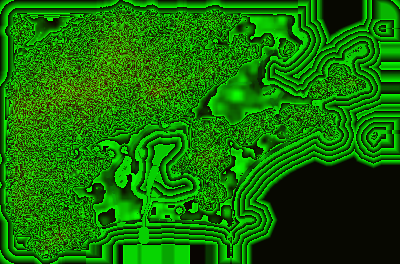
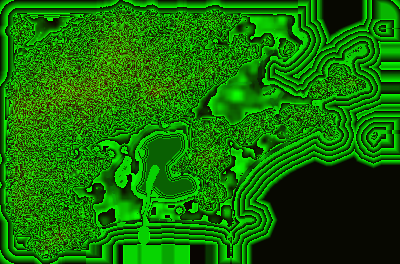
feat(zona-sul): navio 15% maior, canal mais fundo nas laterais, Lagoa toda navegável + som de navegação
Pedro 01/11: "aumentar o navio uns 15%, a lateral do canal afundar um
pouco mais, a Lagoa toda pro barco navegar"; "dirigindo o barco sai som de
caminhada e não de navegação".

- Navio: 32 → 36,8 m (calado 2,0 → 2,3 m). Modelo, convés escaneado
  (13 × 38 células, convés a 4,67 m da quilha), timão, canhões e rastro
  acompanham (tudo sai do comprimento).
- Canal: fundo chato 3,7 → 5 m de cada lado do eixo — navegável 14,75–16,5
  m (casco 8,8 m → 3–3,8 m de folga de cada lado); água à vista ~19–23 m.
  No jogo: atravessa da boca até a Lagoa a 10–11 m/s, sem frear na curva.
- Lagoa: a fundura cresce 0,3 m por m da margem (era 0,1), até 6 m — o
  navio (3,2 m) passa a ~10 m da margem (antes ~29 m); a beirinha segue
  rasa. Laguinhos/represas como eram.
- Som: no timão os passos desligam (ficavam ligados de quando andava no
  convés); NOVO som do casco cortando a água ("chuáá" que vai e vem com a
  proa, sobe com a velocidade) + vento nas velas — gerado no navegador, sem
  arquivo; vale pilotando e em pé no convés com o navio andando.
- Acampamentos, tubarões e farm nos mesmos lugares; os bichos soltos foram
  re-sorteados (a margem nova do canal entrou na beira da Lagoa do jacaré),
  mesmas regras e quantidades.

Changed region(s): [[0.33, 0.4848, 0.51, 0.8182]]

diff --git a/src/components/zona-sul/zona-sul-world.tsx b/src/components/zona-sul/zona-sul-world.tsx
@@ -180,7 +180,7 @@ const EYE_SEATED = 1.12, COCKPIT_FOV = 74, CHASE_FOV = 55;
 
 /** SOM do mundo em volta do herói (mar, arrebentação, carro, vento) — 10×/s. */
 const AMB: AmbienceState = { sea: 0, surf: 0, car: false, carSpeed: 0, carAlt: 0, wind: 0 };
-function ambienceAt(t: ZsTerrain, p: THREE.Vector3, car: ZsCar | null, rideSpeed: number): AmbienceState {
+function ambienceAt(t: ZsTerrain, p: THREE.Vector3, car: ZsCar | null, rideSpeed: number, shipSpeed = 0): AmbienceState {
   let sea = 0;
   for (let a = 0; a < 8; a++) { const ang = (a / 8) * Math.PI * 2; if (zsSurfAt(t, p.x + Math.sin(ang) * 60, p.z + Math.cos(ang) * 60) === ZS_SURF.sea) sea++; }
   AMB.sea = zsCtx.inWater ? 1 : (sea / 8) * Math.max(0, 1 - Math.max(0, p.y) / 45);
@@ -190,6 +190,9 @@ function ambienceAt(t: ZsTerrain, p: THREE.Vector3, car: ZsCar | null, rideSpeed
   AMB.car = drive.mode === 'driving' && !!car;
   AMB.carSpeed = car?.speed ?? 0; AMB.carAlt = car?.altitude ?? 0;
   AMB.wind = AMB.car ? Math.min(1, AMB.carAlt / 25 + Math.abs(AMB.carSpeed) / 60) : Math.min(1, (rideSpeed / 14) * 0.6);
+  // NAVIO (pilotando ou em pé no convés): a água no casco + o vento nas velas, com a velocidade
+  AMB.ship = Math.min(1, Math.abs(shipSpeed) / WARSHIP.MAX);
+  if (AMB.ship > 0) { AMB.wind = Math.max(AMB.wind, AMB.ship * 0.55); AMB.sea = Math.max(AMB.sea, 0.6); }
   // caverna: lá dentro o mar e o vento somem (a rocha abafa)
   const muffle = 1 - zsCave.dark; AMB.sea *= muffle; AMB.surf *= muffle; AMB.wind *= muffle;
   return AMB;
@@ -341,7 +344,7 @@ function Hero({ t, heroRef, focusRef, onHud, carRef, dimsRef, boardRef, playerRe
       if (tc.driving !== drv || tc.nearCar !== near || tc.inWater !== wet || tc.sailing !== sail || tc.nearShip !== nearSh || tc.shipAct !== act) useZsTouch.setState({ driving: drv, nearCar: near, inWater: wet, sailing: sail, nearShip: nearSh, shipAct: act });
     }
     ambAcc.current += dt;
-    if (ambAcc.current > 0.1) { ambAcc.current = 0; zsAmbience.update(ambienceAt(t, p, car, ride.current?.mode === 'ride' ? ride.current.speed : 0)); }
+    if (ambAcc.current > 0.1) { ambAcc.current = 0; zsAmbience.update(ambienceAt(t, p, car, ride.current?.mode === 'ride' ? ride.current.speed : 0, ship && (drive.mode === 'sailing' || onDeck.current) ? ship.speed : 0)); }
     // E: entra (perto do carro) / sai A QUALQUER MOMENTO (Pedro 31/10: "no carro apertar e em qualquer momento pode sair
     // dele; se estiver voando cai do alto e desce normal, então só esperar") — no ar o herói cai com a gravidade de sempre
     if (input.eTap) {
@@ -473,6 +476,7 @@ function Hero({ t, heroRef, focusRef, onHud, carRef, dimsRef, boardRef, playerRe
       p.set(hx, hy, hz); focusRef.current.copy(p);
       if (group.current) { group.current.position.set(hx, hy, hz); group.current.rotation.set(0, ship.yaw, 0); group.current.visible = true; }
       action.current = 'idle'; speed.current = 0; yawNow.current = ship.yaw;
+      audioManager.setFootsteps(false); // no timão não é caminhada (os passos ficavam ligados de quando andava no convés)
       // câmera: atrás do navio, alto e longe (o navio tem 32 m); mirando, fica onde você pôs (escolhe o costado)
       const aiming = input.cannonAim || touchLayout.on;
       if (!input.cannonAim && now - input.lookAt > 2500) { let d = ship.yaw + Math.PI - input.yaw; while (d > Math.PI) d -= Math.PI * 2; while (d < -Math.PI) d += Math.PI * 2; input.yaw += d * Math.min(1, dt * 1.2); }

diff --git a/src/test/canal-jardim-de-alah.test.ts b/src/test/canal-jardim-de-alah.test.ts
@@ -90,7 +90,8 @@ describe('canal do Jardim de Alah navegável', () => {
   /** eixo do canal no trecho estreito (das avenidas do Jardim de Alah até a areia) */
   const axisX = (z: number) => (z <= 280 ? -205 : z <= 340 ? -205 + (z - 280) * (-18 / 60) : -223);
 
-  it('"um navio por vez com sobrinha": no trecho estreito (entre as avenidas e na praia) a água navegável tem ~2 m de folga de cada lado do casco e a água à vista fica em ~16–19 m (não arromba)', () => {
+  // 01/11 (2ª): navio 15% maior (casco 8,8 m) e "a lateral do canal afundar um pouco mais" → ~3 m de folga de cada lado
+  it('"um navio por vez com sobrinha": no trecho estreito (entre as avenidas e na praia) a água navegável tem ~3 m de folga de cada lado do casco e a água à vista fica em ~19–23 m (não arromba)', () => {
     const beam = WARSHIP.LENGTH * 0.12 * 2; // a boca que o casco confere (7,7 m)
     let navMin = Infinity, wetMax = 0, wetSum = 0, n = 0;
     for (let z = 276; z <= 368; z += 2) {
@@ -102,9 +103,9 @@ describe('canal do Jardim de Alah navegável', () => {
       }
       navMin = Math.min(navMin, nav); wetMax = Math.max(wetMax, wet); wetSum += wet; n++;
     }
-    expect(navMin).toBeGreaterThanOrEqual(beam + 2 * 2); // medido: 12,25 m (casco 7,7 → 2,3 m de cada lado)
-    expect(wetMax).toBeLessThanOrEqual(20);              // medido: 19,25 no pior ponto (a grade de 4 m na diagonal)
-    expect(wetSum / n).toBeLessThanOrEqual(18);          // medido: ~17 m em média
+    expect(navMin).toBeGreaterThanOrEqual(beam + 2 * 2.8); // medido: 14,75 m (casco 8,8 → ~3 m de cada lado)
+    expect(wetMax).toBeLessThanOrEqual(23.5);              // medido: 22,75 no pior ponto (a grade de 4 m na diagonal)
+    expect(wetSum / n).toBeLessThanOrEqual(21.5);          // medido: ~20 m em média
   });
 
   it('tubarão continua só no mar (canal e Lagoa não são dele); a margem da Lagoa segue rasa como era', () => {
@@ -112,8 +113,9 @@ describe('canal do Jardim de Alah navegável', () => {
     expect(zsSurfAt(t, -213, 320)).toBe(ZS_SURF.lagoon);
     expect(zsSwimmable(t, -150, 120)).toBe(false);
     expect(zsNavigable(t, -150, 120, WARSHIP.MIN_DEPTH)).toBe(true);
-    // beirinha da Lagoa (a ~6 m da margem oeste, longe do canal): fundura de antes (≤ 1,2 m)
-    expect(-zsHeightAt(t, -226, 150)).toBeLessThan(1.6);
+    // 01/11 (2ª, Pedro: "afundar a Lagoa TODA pro barco navegar"): a ~14 m da margem já passa o navio
+    expect(zsNavigable(t, -212, 150, WARSHIP.MIN_DEPTH)).toBe(true);
+    expect(-zsHeightAt(t, -228, 150)).toBeLessThan(2.5); // a beirinha continua rasa
   });
 
   it('não sobra rua pintada no fundo do canal (a pista para antes da beira d\'água)', () => {

diff --git a/src/components/zona-sul/zs-ambience.ts b/src/components/zona-sul/zs-ambience.ts
@@ -22,6 +22,9 @@ export type AmbienceState = {
   carAlt: number;
   /** 0..1 — vento (voo/surf rápido) */
   wind: number;
+  /** 0..1 — NAVIO andando (fração da velocidade máxima): a água correndo no casco (01/11, Pedro: "dirigindo o barco sai
+   *  som de caminhada e não de navegação") */
+  ship?: number;
 };
 
 type Chain = { gain: GainNode; filter: BiquadFilterNode };
@@ -32,6 +35,8 @@ class ZsAmbience {
   private sea: Chain | null = null;
   private surf: Chain | null = null;
   private wind: Chain | null = null;
+  /** casco do navio: "chuáá" da água na proa/costado (ruído em faixa, sobe com a velocidade) + balanço lento */
+  private hull: Chain | null = null;
   private car: { gain: GainNode; filter: BiquadFilterNode; o1: OscillatorNode; o2: OscillatorNode; whine: OscillatorNode; whineGain: GainNode } | null = null;
   private seaLfo: OscillatorNode | null = null;
 
@@ -79,6 +84,11 @@ class ZsAmbience {
     this.seaLfo = lfo;
     this.surf = this.chain(ctx, 'lowpass', 180, 1.2);
     this.wind = this.chain(ctx, 'bandpass', 600, 0.6);
+    this.hull = this.chain(ctx, 'bandpass', 700, 0.5);
+    // a proa sobe e desce na onda: o "chuáá" vai e vem (~3 s)
+    const hl = ctx.createOscillator(), hlg = ctx.createGain();
+    hl.frequency.value = 0.33; hlg.gain.value = 220;
+    hl.connect(hlg).connect(this.hull.filter.frequency); hl.start();
     const o1 = ctx.createOscillator(), o2 = ctx.createOscillator(), filter = ctx.createBiquadFilter(), gain = ctx.createGain();
     o1.type = 'sawtooth'; o2.type = 'square'; o1.frequency.value = 55; o2.frequency.value = 27.5; o2.detune.value = 8;
     filter.type = 'lowpass'; filter.frequency.value = 380; gain.gain.value = 0;
@@ -101,6 +111,11 @@ class ZsAmbience {
       this.wind.gain.gain.setTargetAtTime(m * 0.12 * s.wind, t, r);
       this.wind.filter.frequency.setTargetAtTime(400 + s.wind * 900, t, r);
     }
+    if (this.hull) {
+      const k = s.ship ?? 0;
+      this.hull.gain.gain.setTargetAtTime(m * (k > 0.02 ? 0.05 + 0.17 * k : 0), t, r);
+      this.hull.filter.frequency.setTargetAtTime(450 + k * 900, t, r);
+    }
     const c = this.car;
     if (c) {
       const sp = Math.abs(s.carSpeed);
@@ -115,7 +130,7 @@ class ZsAmbience {
 
   /** Saiu da Zona Sul: silencia (o contexto fica, barato, pra voltar sem estalo). */
   mute(): void {
-    this.update({ sea: 0, surf: 0, car: false, carSpeed: 0, carAlt: 0, wind: 0 });
+    this.update({ sea: 0, surf: 0, car: false, carSpeed: 0, carAlt: 0, wind: 0, ship: 0 });
   }
 }
 

diff --git a/src/components/zona-sul/zs-warship-view.tsx b/src/components/zona-sul/zs-warship-view.tsx
@@ -17,8 +17,8 @@ import { ballAt, type CannonBall, WARSHIP, warshipLocal, warshipWorld, type ZsWa
 import { zsWaterYAt } from './zs-terrain-data';
 
 const URL = '/zona-sul/warship.glb';
-/** quilha abaixo da superfície (m) */
-export const WARSHIP_DRAFT = 2.0;
+/** quilha abaixo da superfície (m) — 01/11: navio 15% maior → calado junto (era 2,0) */
+export const WARSHIP_DRAFT = 2.3;
 /** costado (onde ficam os canhões) e convés de popa (timão), em fração da altura do modelo — medidos */
 const GUNWALE_K = 0.23, HELM_DECK_K = 0.27;
 /** timão: fração do comprimento atrás do meio (popa) */

diff --git a/src/components/zona-sul/zs-warship.ts b/src/components/zona-sul/zs-warship.ts
@@ -10,7 +10,7 @@
  */
 
 export const WARSHIP = {
-  LENGTH: 32,                       // m (o encalhado tem 38)
+  LENGTH: 36.8,                     // m (o encalhado tem 38) — Pedro 01/11: "aumentar o navio uns 15%" (era 32)
   // Pedro 01/11: "mais leve pra dirigir, tá meio lento, engessado" → era 9 m/s, acel. 1,5, giro 0,3 rad/s (resp. 1,4)
   MAX: 12, REVERSE: 3.5,            // m/s (12 ≈ 43 km/h)
   ACCEL: 3.2, BRAKE: 4.5, COAST: 0.18,
